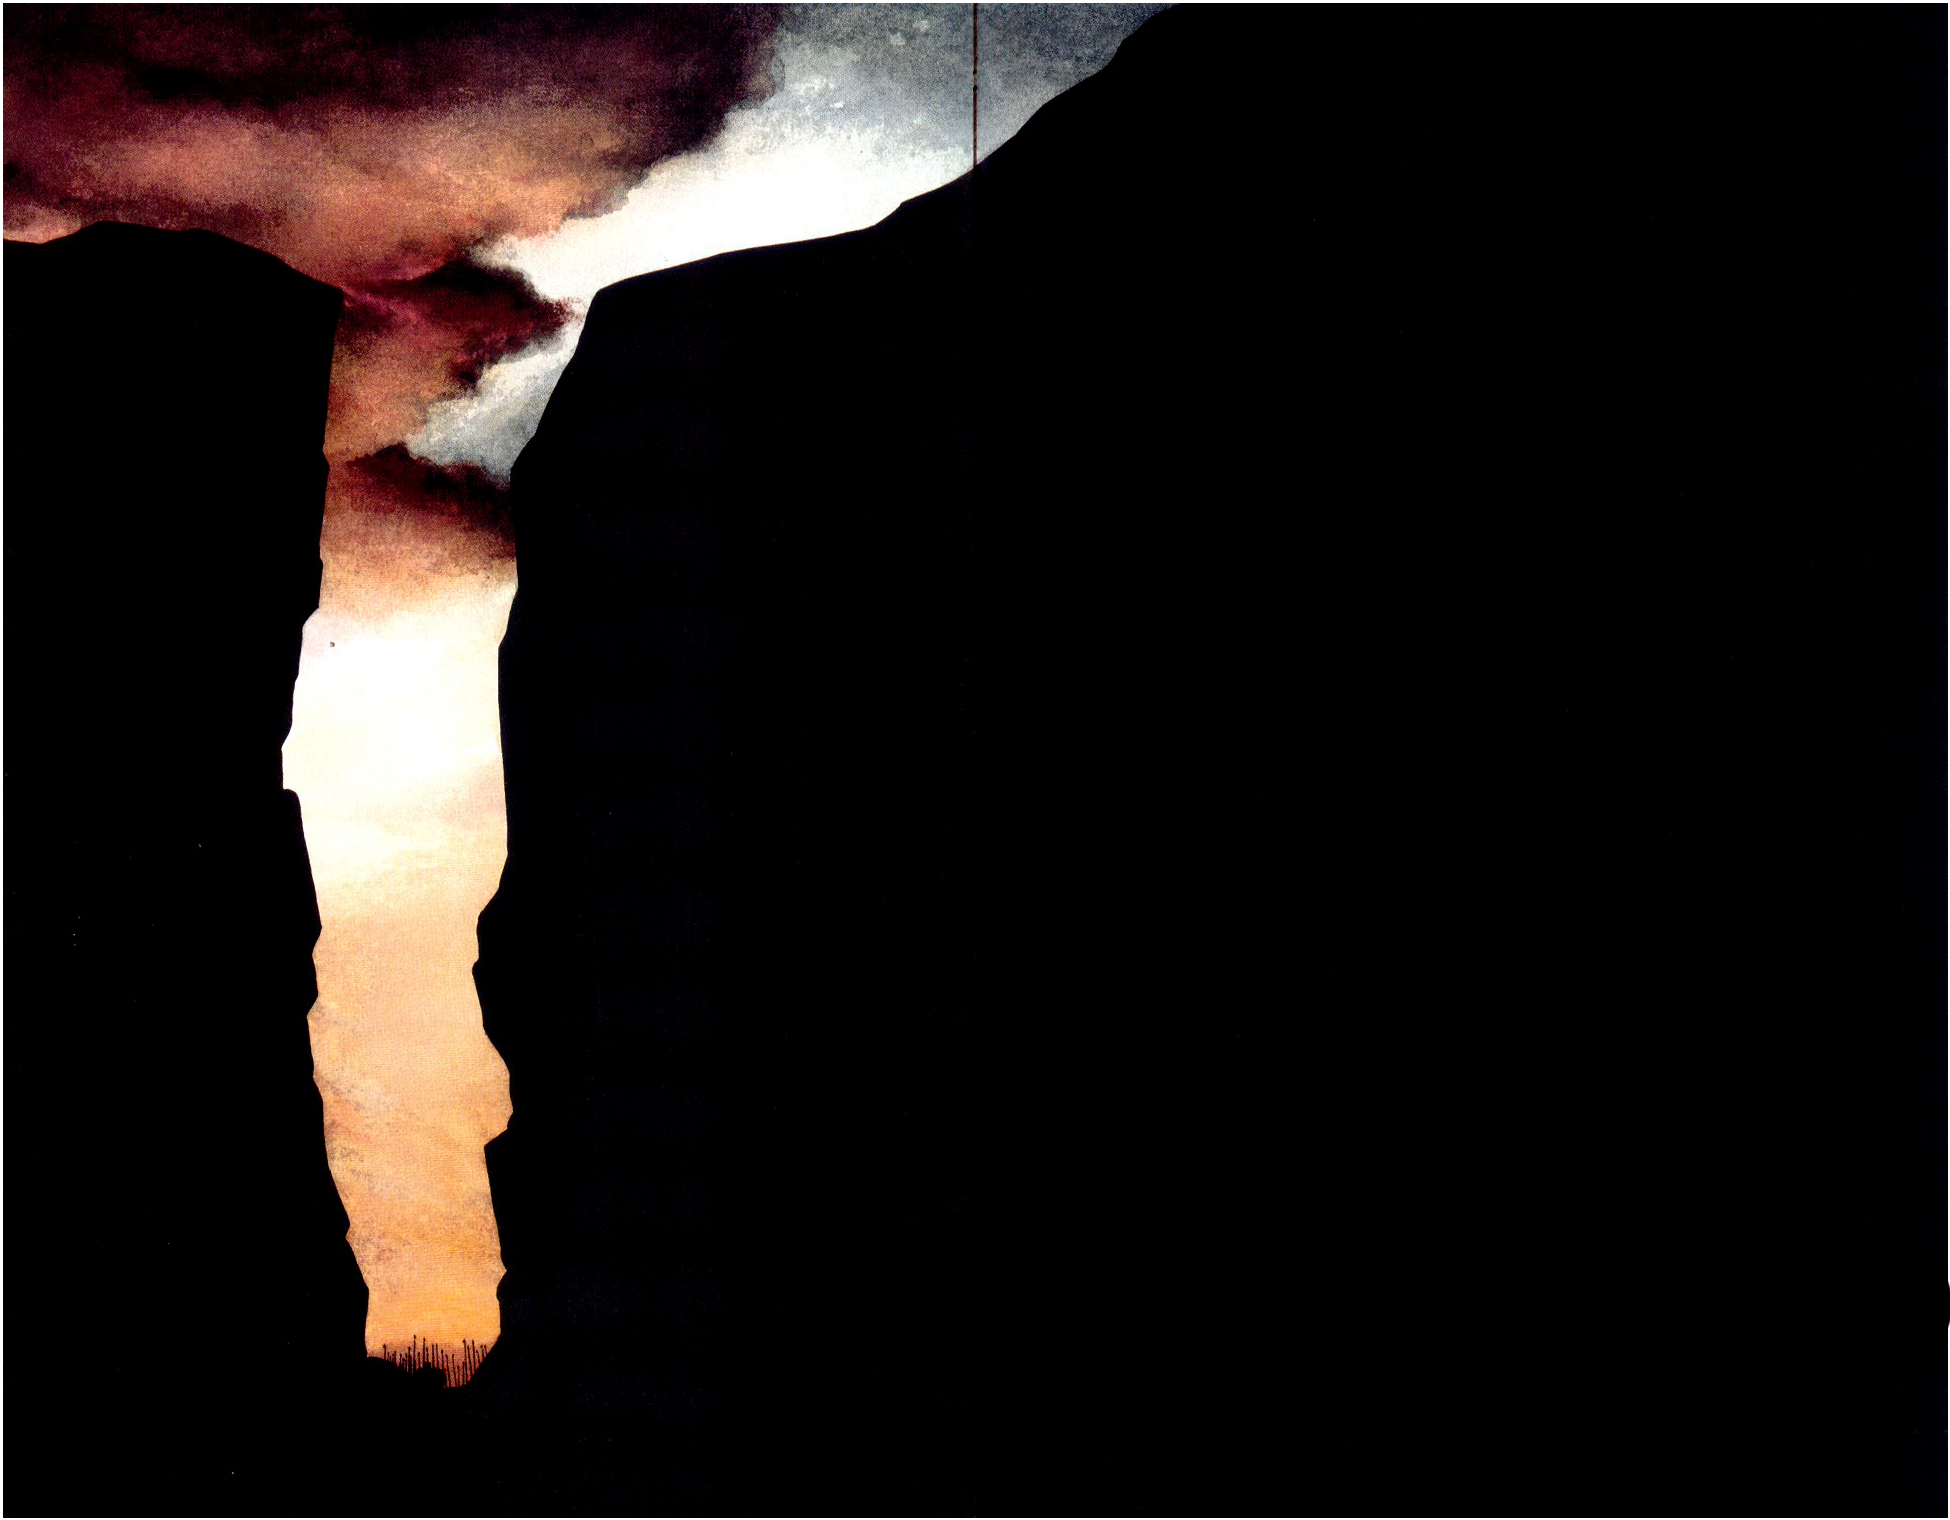
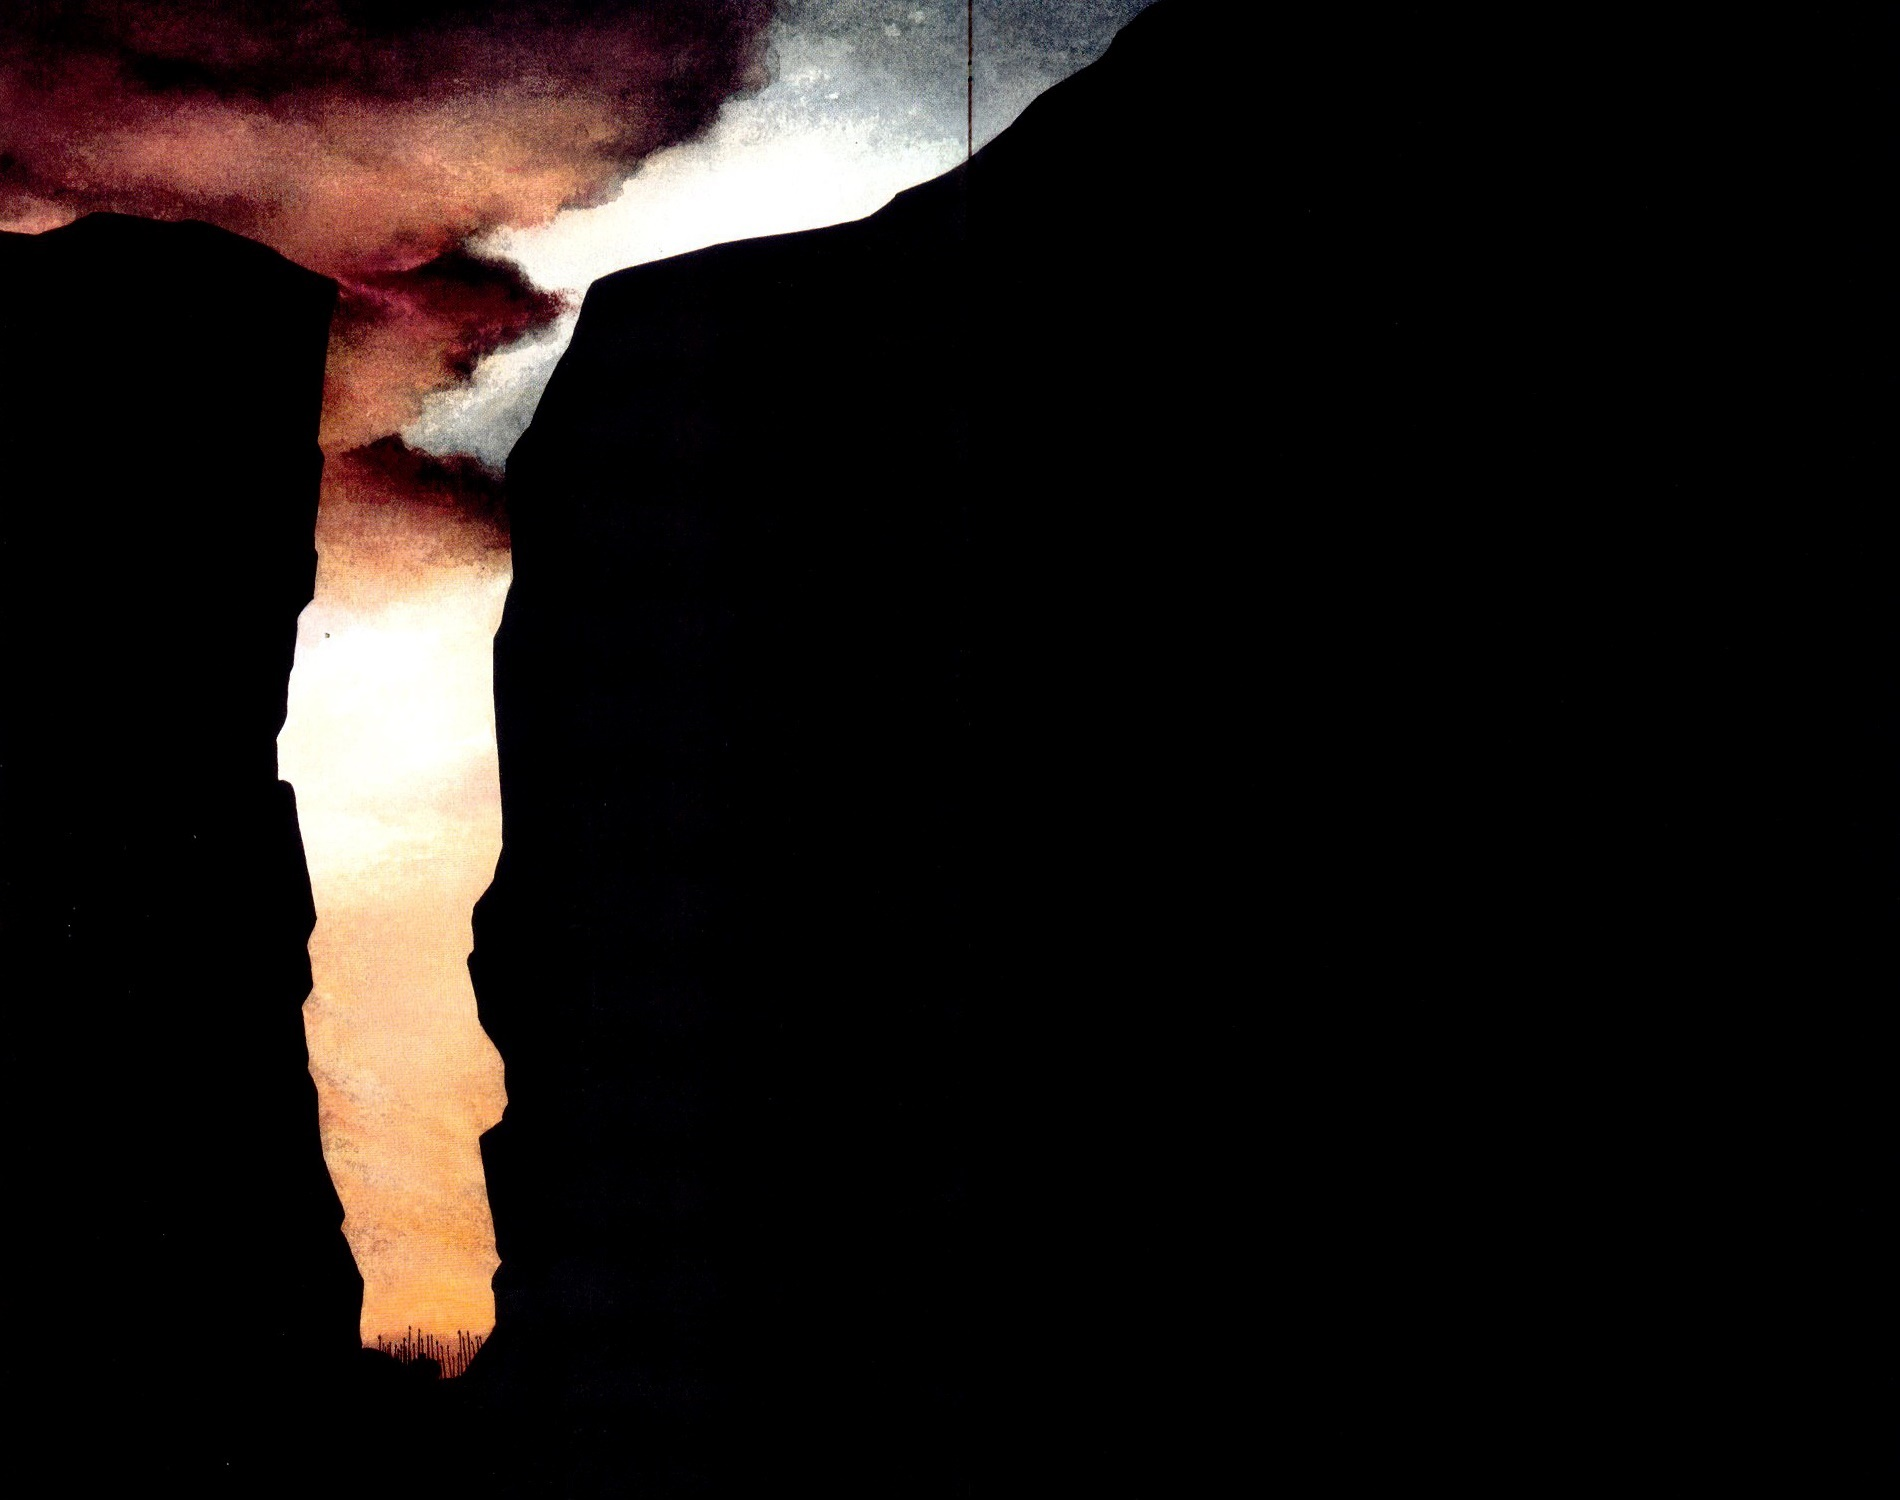
Updated Soft-Spartans.html Soft-Spartans.css. Added images. Edited background.jpg

diff --git a/Soft-Spartans.html b/Soft-Spartans.html
@@ -1,0 +1,93 @@
+<!DOCTYPE html>
+<html>
+<head>
+    <title>TEAM "BAKER-MILLER PINK"</title>
+    <meta charset="utf-8" />
+
+    <link rel="stylesheet" href="styles/style.css" type="text/css" />
+    <link rel="stylesheet" href="Soft-Spartans.css" type="text/css"/>
+    <meta name="viewport" content="width=device-width, initial-scale=1.0">
+
+</head>
+<body>
+<div id="wrapper">
+    <!-- Header -->
+    <header>
+        <img src="images/logo3.gif" alt="BAKER-MILLER PINK Logo" id="logo">
+        <p class="triangle-right">
+            Nakov meets the headquarters of the other universities...
+        </p>
+        <nav>
+            <ul>
+                <li class="active">
+                    <a href="index.html" id="current">Sparta</a>
+                </li>
+                <li>
+                    <a href="History-scene1.html" >History</a>
+                </li>
+                <li>
+                    <a href="Hard-Spartans.html">Hard Spartans</a>
+                </li>
+
+                <li>
+                    <a href="Soft-Spartans.html">Soft Spartans</a>
+                </li>
+            </ul>
+        </nav>
+    </header>
+    <!-- Main Content -->
+    <div id="mainContent">
+        <section>
+            <article>
+                <header>Hristo Dzhahov</header>
+                <div>
+                    <img src="images/Hristo.png" alt="Hristo" align="left"/>
+                    <p>Hristo</p>
+                </div>
+                <footer>
+                    <a href="http://www.nakov.com/" target="_blank">Bio and more info here!</a>
+                </footer>
+            </article>
+
+            <article>
+                <header>Petar Petkov</header>
+                <div>
+                    <img src="images/Pesho.png" alt="Petar" align="left"/>
+                    <p>Petar</p>
+                </div>
+                <footer>
+                    <a href="http://peshev.net/blog/" target="_blank">Bio and more info here!</a>
+                </footer>
+            </article>
+
+            <article>
+                <header>Kaloyan Marinov</header>
+                <div>
+                    <img src="images/Kaloyan.png" alt="Kaloyan" align="left"/>
+                    <p>Kaloyan</p>
+                </div>
+                <footer>
+                    <a href="http://hydra.azilian.net/blog/about/" target="_blank">Bio and more info here!</a>
+                </footer>
+            </article>
+            <article>
+                <header>Venelin Grozev</header>
+                <div>
+                    <img src="images/Untitled.png" alt="Venelin" align="left"/>
+                    <p>Venelin</p>
+                </div>
+                <footer>
+                    <a href="http://hydra.azilian.net/blog/about/" target="_blank">Bio and more info here!</a>
+                </footer>
+            </article>
+        </section>
+    </div>
+    <!-- Footer -->
+    <footer>
+        <p>
+            Copyright &copy; 2014 <a href="http://softuni.bg">SoftUni</a> - BakerMillerPink Team
+        </p>
+    </footer>
+</div>
+</body>
+</html>

diff --git a/Soft-Spartans.css b/Soft-Spartans.css
@@ -1,0 +1,35 @@
+article
+{
+    background-color:transparent;
+    margin-left:10%;
+    width: 75%;
+    display: inline-block;
+    font-size: 1.5em;
+}
+
+article header
+{
+    width:100%;
+    color:#A80000 ;
+    font-size:2em;
+}
+
+article div::first-letter
+{
+    font-size:200%;
+    color: #E00000;
+}
+
+article div p
+{
+   padding-left: 33%;
+    color:#E00000;
+}
+
+footer a
+{
+    padding-left: 5%;
+    color:#E00000;
+    font-style:italic;
+}
+

diff --git a/styles/style.css b/styles/style.css
@@ -12,7 +12,7 @@
 
 html {
 	background-color: #000;
-	background-image: url('../images/background2.jpg');
+	background-image: url('../images/background.jpg');
 	background-size: 100% auto;
 	background-repeat: no-repeat;
 	font-size: 14px;
